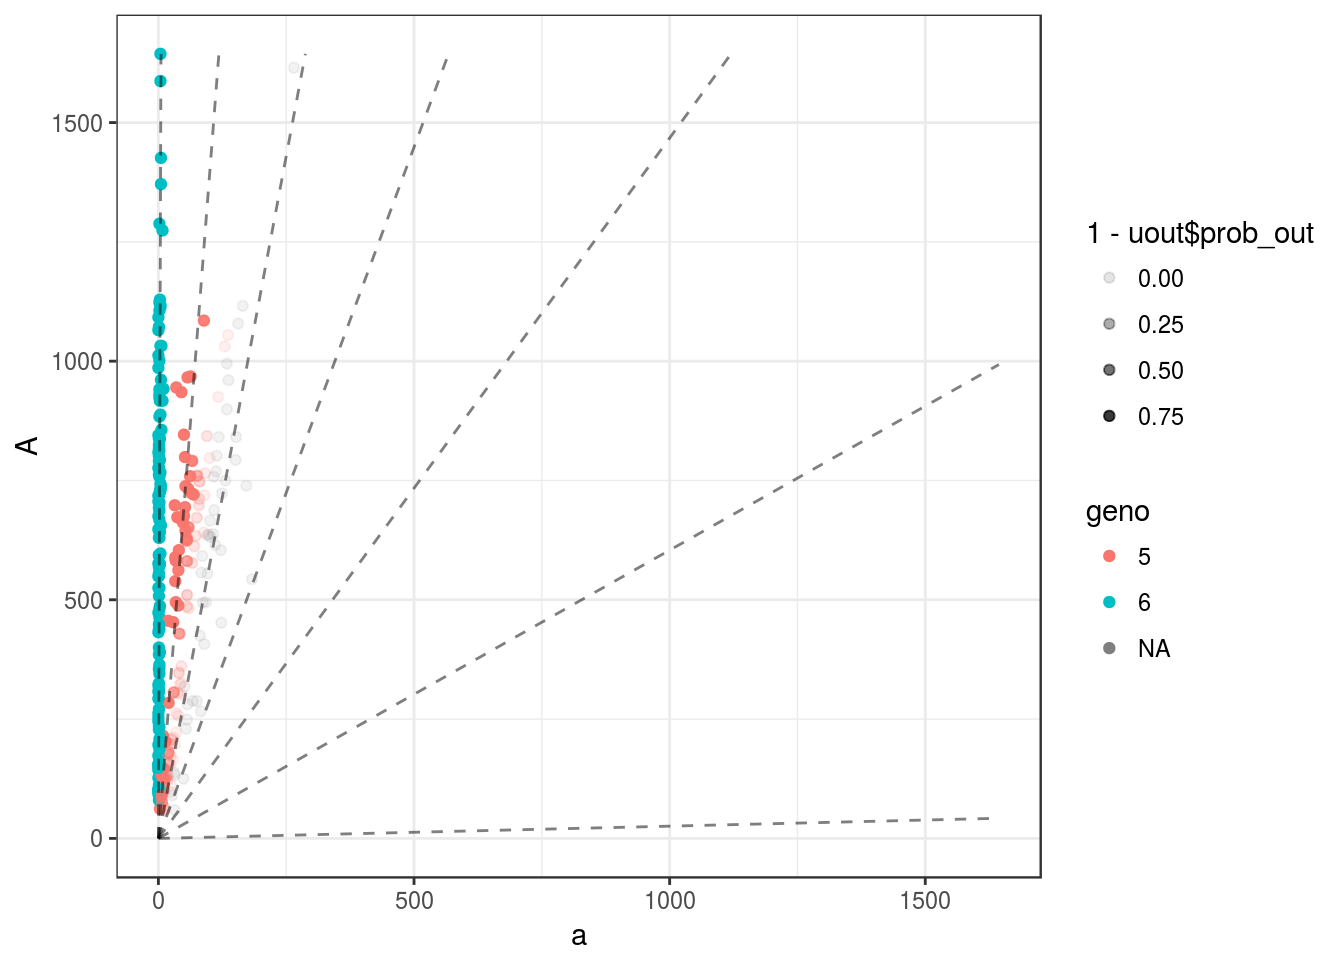
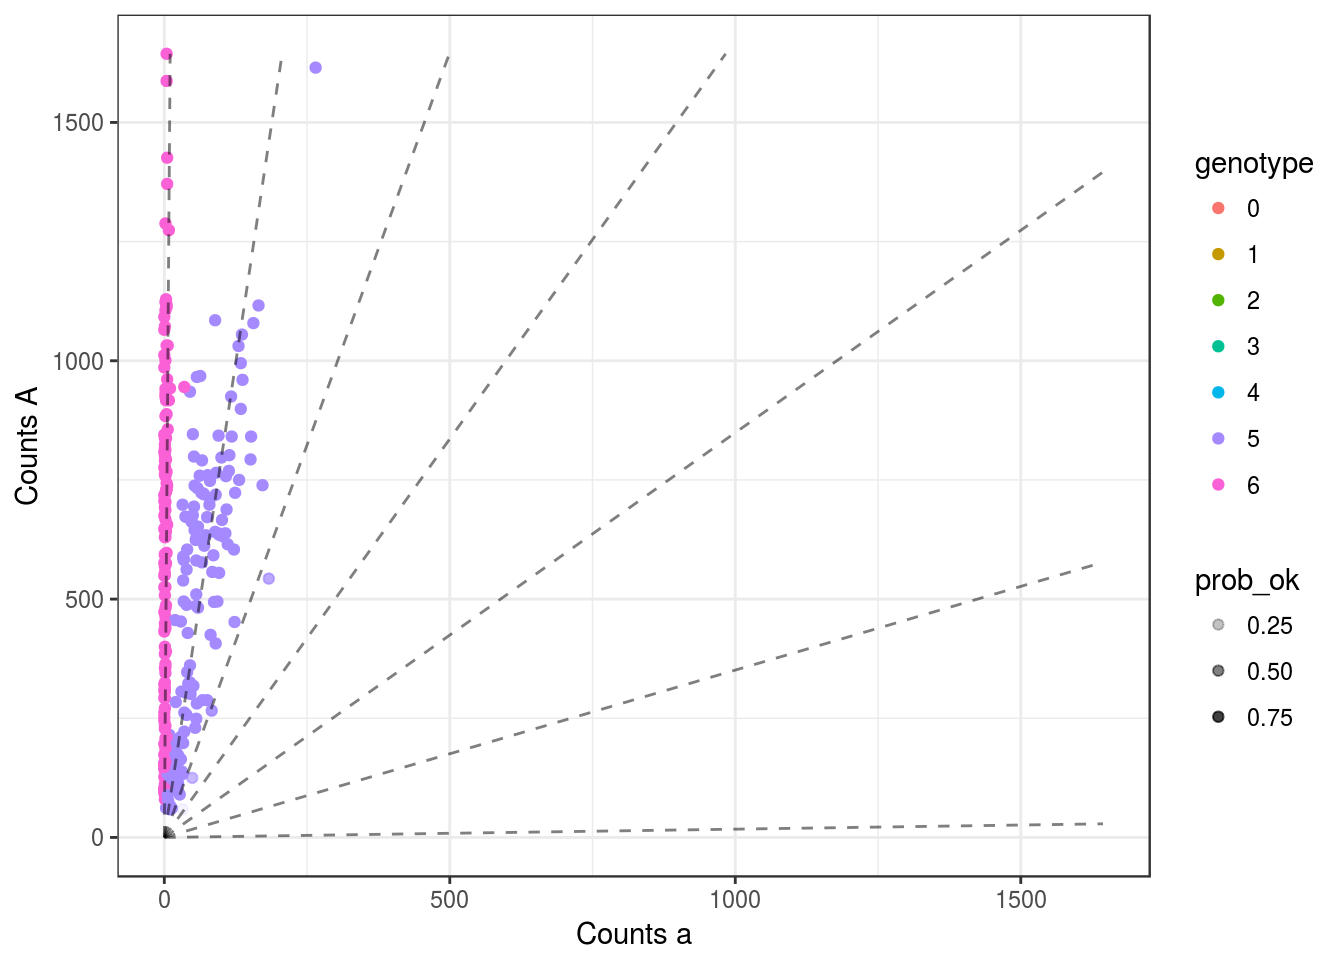
constrain outlier distribution to be unif(0,1) works well as long as out_prop = 0.001 as starting value

diff --git a/docs/vanilla_updog_out_mean_05.html b/docs/vanilla_updog_out_mean_05.html
@@ -9,11 +9,11 @@
 <meta name="generator" content="pandoc" />
 
 
-<meta name="author" content="David Gerard" />
+<meta name="author" content="First Last" />
 
-<meta name="date" content="2017-05-15" />
+<meta name="date" content="2017-05-16" />
 
-<title>Diagnostic plot</title>
+<title>First Fits with Outlier Model</title>
 
 <script src="site_libs/jquery-1.11.3/jquery.min.js"></script>
 <meta name="viewport" content="width=device-width, initial-scale=1" />
@@ -302,65 +302,44 @@ div.tocify {
 
 
 
-<h1 class="title toc-ignore">Diagnostic plot</h1>
-<h4 class="author"><em>David Gerard</em></h4>
-<h4 class="date"><em>May 15, 2017</em></h4>
+<h1 class="title toc-ignore">First Fits with Outlier Model</h1>
+<h4 class="author"><em>First Last</em></h4>
+<h4 class="date"><em>2017-05-16</em></h4>
 
 </div>
 
 
-<div id="abstract" class="section level1">
-<h1>Abstract</h1>
-<p>Here I explore diagnostic plots</p>
-</div>
-<div id="data" class="section level1">
-<h1>Data</h1>
-<p>This is the problem SNP I have for updog.</p>
+<p><strong>Last updated:</strong> 2017-05-16</p>
+<p><strong>Code version:</strong> 90435ac163b67595849b9c18ebc1f282e40c0b8b</p>
+<p>Here, I try out vanilla updog with the outlier model where the dispersion has to be above 0.1.</p>
+<div id="read-in-data" class="section level2">
+<h2>Read in Data</h2>
 <pre class="r"><code>library(updog)
 set.seed(483)
 load(&quot;../data/subset_David.Rdata&quot;)
 ddat &lt;- subset_david
-lastp &lt;- 12 ## number of final rows that are parents
+lastp &lt;- 12 ## number of final rows that are parents</code></pre>
+<pre class="r"><code>for (index in 1:length(ddat)) {
+  cmat &lt;- ddat[[index]]
+  p1dat &lt;- cmat[(nrow(cmat) - lastp + 1):(nrow(cmat) - lastp / 2), ]
+  p2dat &lt;- cmat[(nrow(cmat) - lastp / 2 + 1):nrow(cmat), ]
+  odat  &lt;- cmat[1:(nrow(cmat) - lastp), ]
 
-cmat &lt;- ddat[[7]]
-p1dat &lt;- cmat[(nrow(cmat) - lastp + 1):(nrow(cmat) - lastp / 2), ]
-p2dat &lt;- cmat[(nrow(cmat) - lastp / 2 + 1):nrow(cmat), ]
-odat  &lt;- cmat[1:(nrow(cmat) - lastp), ]
+  p1counts &lt;- p1dat[, 1]
+  p1size   &lt;- rowSums(p1dat)
+  p2counts &lt;- p2dat[, 1]
+  p2size   &lt;- rowSums(p2dat)
+  ocounts  &lt;- odat[, 1]
+  osize    &lt;- rowSums(odat)
+  ploidy &lt;- 6
 
-p1counts &lt;- p1dat[, 1]
-p1size   &lt;- rowSums(p1dat)
-p2counts &lt;- p2dat[, 1]
-p2size   &lt;- rowSums(p2dat)
-ocounts  &lt;- odat[, 1]
-osize    &lt;- rowSums(odat)
-ploidy &lt;- 6</code></pre>
-<p>Raw plots</p>
-<pre class="r"><code>plot_geno(ocounts = ocounts, osize = osize, ploidy = ploidy, seq_error = 0)</code></pre>
-<p><img src="diagnostic_plot_files/figure-html/unnamed-chunk-2-1.png" width="672" /></p>
-</div>
-<div id="fit-updog" class="section level1">
-<h1>Fit updog</h1>
-<pre class="r"><code>uout &lt;- updog_vanilla(ocounts = ocounts, osize = osize, ploidy = ploidy, print_val = FALSE,
-                      update_outmean = FALSE)</code></pre>
-<pre class="r"><code>plot(uout, plot_beta = FALSE)</code></pre>
-<p><img src="diagnostic_plot_files/figure-html/unnamed-chunk-4-1.png" width="672" /></p>
-</div>
-<div id="eda" class="section level1">
-<h1>EDA</h1>
-<p>My idea is to bin the genotypes and then see their discrepancy from the expecteed number under the segegation probabilities.</p>
-<pre class="r"><code>tab_geno &lt;- table(uout$ogeno)
-phat &lt;- tab_geno / sum(tab_geno)
-
-qarray &lt;- get_q_array(ploidy)
-probs &lt;- qarray[uout$p1geno + 1, uout$p2geno + 1, ]</code></pre>
-<p>Notice that <code>phat</code> deviates from 0.5 by the same amount. This is also the predicted segregation probabilities. Thought I checked other fits and they don’t follow this. So I think this is just a coincidence.</p>
-<pre class="r"><code>phat</code></pre>
-<pre><code>## 
-##      5      6 
-## 0.5165 0.4835</code></pre>
-<pre class="r"><code>probs[6:7]</code></pre>
-<pre><code>## AAAAAa AAAAAA 
-##    0.5    0.5</code></pre>
+  uout &lt;- updog_vanilla(ocounts = ocounts, osize = osize, ploidy = ploidy, min_disp = 0,
+                        print_val = FALSE, commit_num = 4)
+  print(plot_geno(ocounts = ocounts, osize = osize, ploidy = ploidy, seq_error = 0))
+  plot(uout, ask = FALSE, plot_beta = TRUE)
+  
+}</code></pre>
+<p><img src="vanilla_updog_out_mean_05_files/figure-html/unnamed-chunk-2-1.png" width="672" /><img src="vanilla_updog_out_mean_05_files/figure-html/unnamed-chunk-2-2.png" width="672" /><img src="vanilla_updog_out_mean_05_files/figure-html/unnamed-chunk-2-3.png" width="672" /><img src="vanilla_updog_out_mean_05_files/figure-html/unnamed-chunk-2-4.png" width="672" /><img src="vanilla_updog_out_mean_05_files/figure-html/unnamed-chunk-2-5.png" width="672" /><img src="vanilla_updog_out_mean_05_files/figure-html/unnamed-chunk-2-6.png" width="672" /><img src="vanilla_updog_out_mean_05_files/figure-html/unnamed-chunk-2-7.png" width="672" /><img src="vanilla_updog_out_mean_05_files/figure-html/unnamed-chunk-2-8.png" width="672" /><img src="vanilla_updog_out_mean_05_files/figure-html/unnamed-chunk-2-9.png" width="672" /><img src="vanilla_updog_out_mean_05_files/figure-html/unnamed-chunk-2-10.png" width="672" /><img src="vanilla_updog_out_mean_05_files/figure-html/unnamed-chunk-2-11.png" width="672" /><img src="vanilla_updog_out_mean_05_files/figure-html/unnamed-chunk-2-12.png" width="672" /><img src="vanilla_updog_out_mean_05_files/figure-html/unnamed-chunk-2-13.png" width="672" /><img src="vanilla_updog_out_mean_05_files/figure-html/unnamed-chunk-2-14.png" width="672" /><img src="vanilla_updog_out_mean_05_files/figure-html/unnamed-chunk-2-15.png" width="672" /><img src="vanilla_updog_out_mean_05_files/figure-html/unnamed-chunk-2-16.png" width="672" /><img src="vanilla_updog_out_mean_05_files/figure-html/unnamed-chunk-2-17.png" width="672" /><img src="vanilla_updog_out_mean_05_files/figure-html/unnamed-chunk-2-18.png" width="672" /><img src="vanilla_updog_out_mean_05_files/figure-html/unnamed-chunk-2-19.png" width="672" /><img src="vanilla_updog_out_mean_05_files/figure-html/unnamed-chunk-2-20.png" width="672" /><img src="vanilla_updog_out_mean_05_files/figure-html/unnamed-chunk-2-21.png" width="672" /><img src="vanilla_updog_out_mean_05_files/figure-html/unnamed-chunk-2-22.png" width="672" /><img src="vanilla_updog_out_mean_05_files/figure-html/unnamed-chunk-2-23.png" width="672" /><img src="vanilla_updog_out_mean_05_files/figure-html/unnamed-chunk-2-24.png" width="672" /><img src="vanilla_updog_out_mean_05_files/figure-html/unnamed-chunk-2-25.png" width="672" /><img src="vanilla_updog_out_mean_05_files/figure-html/unnamed-chunk-2-26.png" width="672" /><img src="vanilla_updog_out_mean_05_files/figure-html/unnamed-chunk-2-27.png" width="672" /><img src="vanilla_updog_out_mean_05_files/figure-html/unnamed-chunk-2-28.png" width="672" /><img src="vanilla_updog_out_mean_05_files/figure-html/unnamed-chunk-2-29.png" width="672" /><img src="vanilla_updog_out_mean_05_files/figure-html/unnamed-chunk-2-30.png" width="672" /><img src="vanilla_updog_out_mean_05_files/figure-html/unnamed-chunk-2-31.png" width="672" /><img src="vanilla_updog_out_mean_05_files/figure-html/unnamed-chunk-2-32.png" width="672" /><img src="vanilla_updog_out_mean_05_files/figure-html/unnamed-chunk-2-33.png" width="672" /><img src="vanilla_updog_out_mean_05_files/figure-html/unnamed-chunk-2-34.png" width="672" /><img src="vanilla_updog_out_mean_05_files/figure-html/unnamed-chunk-2-35.png" width="672" /><img src="vanilla_updog_out_mean_05_files/figure-html/unnamed-chunk-2-36.png" width="672" /><img src="vanilla_updog_out_mean_05_files/figure-html/unnamed-chunk-2-37.png" width="672" /><img src="vanilla_updog_out_mean_05_files/figure-html/unnamed-chunk-2-38.png" width="672" /><img src="vanilla_updog_out_mean_05_files/figure-html/unnamed-chunk-2-39.png" width="672" /><img src="vanilla_updog_out_mean_05_files/figure-html/unnamed-chunk-2-40.png" width="672" /></p>
 <pre class="r"><code>sessionInfo()</code></pre>
 <pre><code>## R version 3.3.2 (2016-10-31)
 ## Platform: x86_64-pc-linux-gnu (64-bit)
@@ -381,9 +360,9 @@ probs &lt;- qarray[uout$p1geno + 1, uout$p2geno + 1, ]</code></pre>
 ## [1] updog_0.1.0
 ## 
 ## loaded via a namespace (and not attached):
-##  [1] Rcpp_0.12.10     codetools_0.2-15 assertthat_0.2.0 digest_0.6.12   
-##  [5] rprojroot_1.2    plyr_1.8.4       grid_3.3.2       gtable_0.2.0    
-##  [9] backports_1.0.5  magrittr_1.5     evaluate_0.10    scales_0.4.1    
+##  [1] Rcpp_0.12.10     codetools_0.2-15 digest_0.6.12    rprojroot_1.2   
+##  [5] assertthat_0.2.0 plyr_1.8.4       grid_3.3.2       gtable_0.2.0    
+##  [9] backports_1.0.5  magrittr_1.5     scales_0.4.1     evaluate_0.10   
 ## [13] ggplot2_2.2.1    stringi_1.1.2    lazyeval_0.2.0   rmarkdown_1.3   
 ## [17] labeling_0.3     tools_3.3.2      stringr_1.2.0    munsell_0.4.3   
 ## [21] yaml_2.1.14      colorspace_1.3-2 htmltools_0.3.5  knitr_1.15.1    

diff --git a/docs/index.html b/docs/index.html
@@ -306,7 +306,7 @@ div.tocify {
 
 
 <p><strong>Last updated:</strong> 2017-05-15</p>
-<p><strong>Code version:</strong> 39fc318c838a7e8ba7385dcb2a70d04da4f78b43</p>
+<p><strong>Code version:</strong> 90435ac163b67595849b9c18ebc1f282e40c0b8b</p>
 <div id="sweet-potato-project" class="section level1">
 <h1>Sweet Potato Project</h1>
 <p>Much of this code doesn’t work anymore because of modifications to the <a href="https://github.com/dcgerard/updog"><code>updog</code></a> package</p>
@@ -321,7 +321,8 @@ div.tocify {
 <li><a href="vanilla_updog.html">First attempt at modeling bias parameter</a>. Looks promising, but still need to do a lot of work.</li>
 <li><a href="prob_lines.html">Plot probability lines at different levels of seq_error and bias_val</a>.</li>
 <li><a href="vanilla_updog_outlier.html">First fits with outlier model.</a> Things look pretty good!</li>
-<li><a href="diagnostic_plot.html">Some EDA from bad SNP</a></li>
+<li><a href="diagnostic_plot.html">Some EDA from bad SNP</a> Re-ran after I made it so <code>out_mean</code> is constrained to be 0.5. It looks pretty good now!</li>
+<li><a href="vanilla_updog_out_mean_06.html">Updog where mean of outlier distribution is constrained to be 0.5</a></li>
 </ul>
 </div>
 <div id="alfalfa-project" class="section level1">
